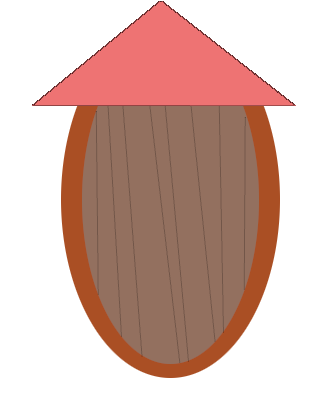
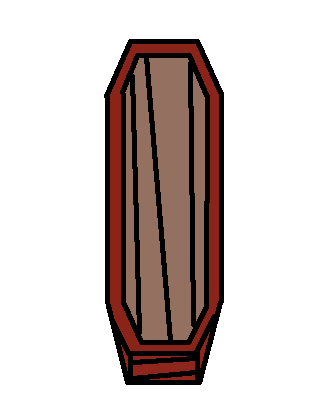
New boat images

diff --git a/core/src/gameobjects/gamecharacters/players/PlayerOne.java b/core/src/gameobjects/gamecharacters/players/PlayerOne.java
@@ -297,7 +297,7 @@ public class PlayerOne extends Player {
 				batch.draw(imageLoader.boatSide, x - 1, y + 1, 4, -3);
 				break;
 			case DIRECTION_UP:
-				batch.draw(imageLoader.boatUp, x - 1, y + 1, 3, -4);
+				batch.draw(imageLoader.boatDown, x - 1, y + 1, 3, -4);
 				break;
 			case DIRECTION_DOWN:
 				batch.draw(imageLoader.boatDown, x - 1, y + 2, 3, -4);
